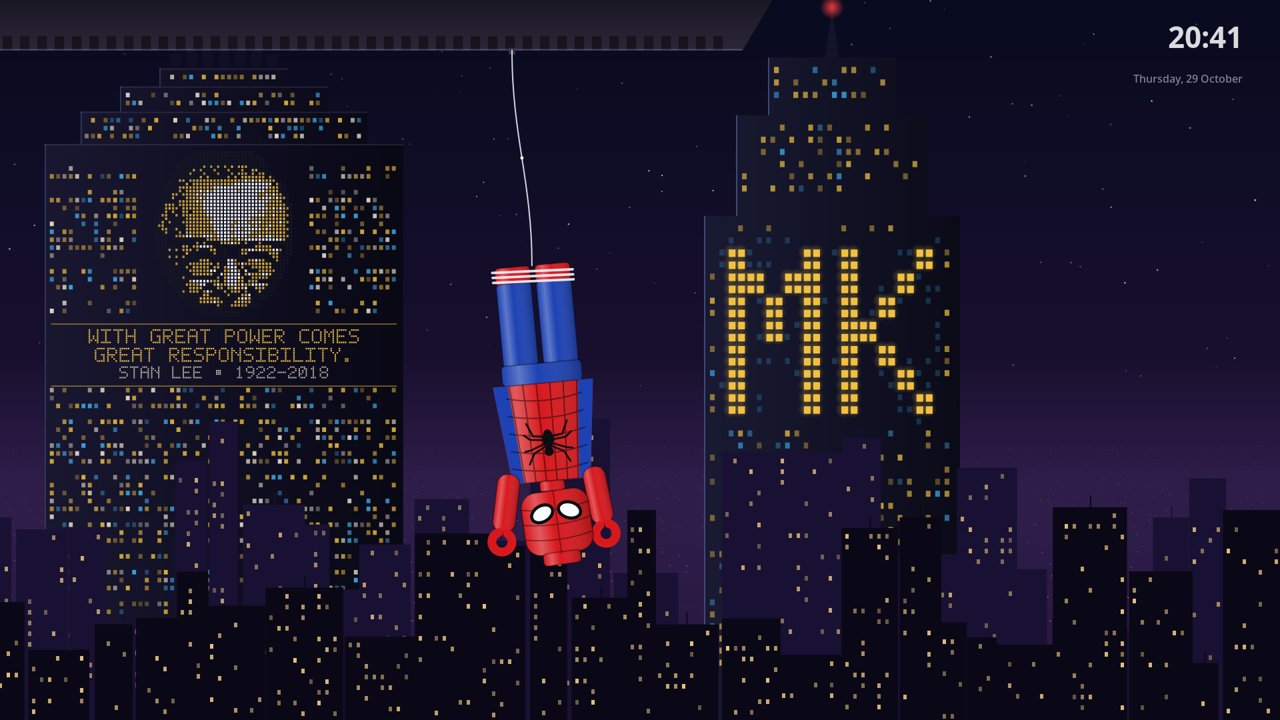
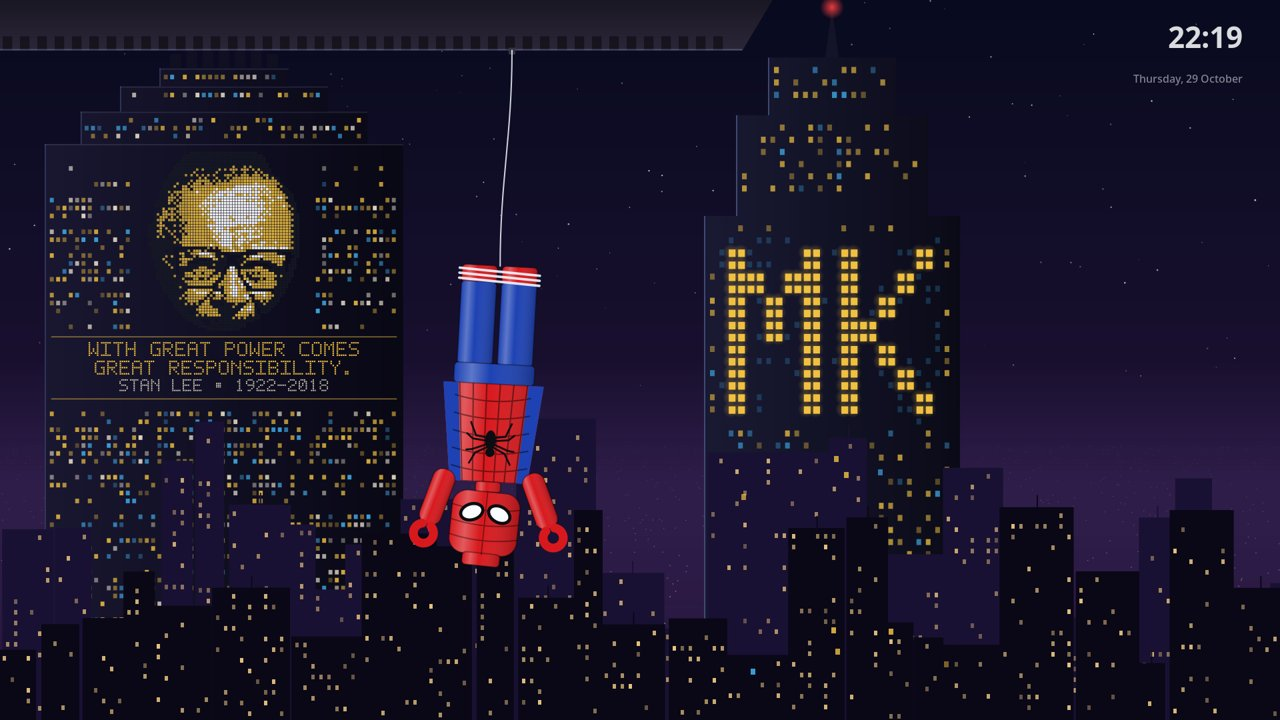
feat(scenes): a sharper Stan Lee: 64 x 64 windows, near-solid panes
The photo is sampled on a 64 x 64 window grid (was 48) with stronger
sharpening, and the portrait's panes fill 86 % of their cell (the
facade's 62 % left wide dark gaps that blurred the face). His glasses'
thick frames now cross the face as unlit glass, with the nose, smile
and white hair standing out; only the brightest highlights are white.
4.5 ms a frame at 1080p.

diff --git a/lib/mkworkstation/scenes.py b/lib/mkworkstation/scenes.py
@@ -513,7 +513,7 @@ def _photo_levels(cols):
         img = Image.open(_PHOTO).convert("L")
         img = ImageOps.autocontrast(ImageOps.fit(img, (cols * 6, cols * 6)), cutoff=2)
         img = img.point(lambda v: round(255 * (v / 255) ** 0.8))  # lift the mid tones
-        img = img.filter(ImageFilter.UnsharpMask(radius=4, percent=180, threshold=2))
+        img = img.filter(ImageFilter.UnsharpMask(radius=3, percent=200, threshold=1))
         img = img.resize((cols, cols), Image.Resampling.LANCZOS)
         px = img.load()
 
@@ -657,8 +657,8 @@ def tribute_tower(cr, w, h):
     # where the portrait and the frieze go, on the main tier
     # The portrait's windows are a finer grid (a glass curtain wall), so the
     # face has ~40 x 40 of them; it ends above the far city's rooftops.
-    ppitch = max(3.4, 5.2 * k)
-    pcols = 48
+    ppitch = max(3.0, 4.2 * k)
+    pcols = 64  # enough windows for the glasses' frames, the nose and the smile
     pside = pcols * ppitch
     py0 = tiers[0][1] + pitch * 1.2
     px0 = cx - pside / 2
@@ -668,10 +668,11 @@ def tribute_tower(cr, w, h):
     frieze_h = tp * 7 * 3 + tp * 10
     frieze_bottom = frieze_top + frieze_h
 
-    def lit(x, y, colour, alpha, size=pitch):
+    def lit(x, y, colour, alpha, size=pitch, fill=(0.62, 0.72)):
         cr.set_source_rgba(*colour, alpha)
-        cr.rectangle(x, y, size * 0.62, size * 0.72)
+        cr.rectangle(x, y, size * fill[0], size * fill[1])
         cr.fill()
+    dense = (0.86, 0.86)  # the portrait's glass wall: almost no mullion between panes
 
     # every office window on every tier
     for tx, tw, top, bottom in spans:
@@ -711,12 +712,12 @@ def tribute_tower(cr, w, h):
                     lit(x, y, cell[0], cell[1], ppitch)
                 continue
             v = levels[r][c]
-            if v > 0.86 + 0.1 * t:
-                lit(x, y, WARM_WHITE if v < 0.93 else (1.0, 1.0, 1.0), 0.95, ppitch)
+            if v > 0.90 + 0.08 * t:
+                lit(x, y, WARM_WHITE if v < 0.95 else (1.0, 1.0, 1.0), 0.95, ppitch, dense)
             elif v > 0.36 + 0.32 * t:
-                lit(x, y, GOLD, 0.45 + 0.5 * v, ppitch)
+                lit(x, y, GOLD, 0.45 + 0.5 * v, ppitch, dense)
             elif v > 0.08:
-                lit(x, y, UNLIT, 0.9, ppitch)
+                lit(x, y, UNLIT, 0.9, ppitch, dense)
     # the frieze: a lit band with the quote and the dates
     # the frieze: no box, two thin lit cornice lines framing the lit letters
     fx0, fx1 = x0 + pitch, x1 - pitch
